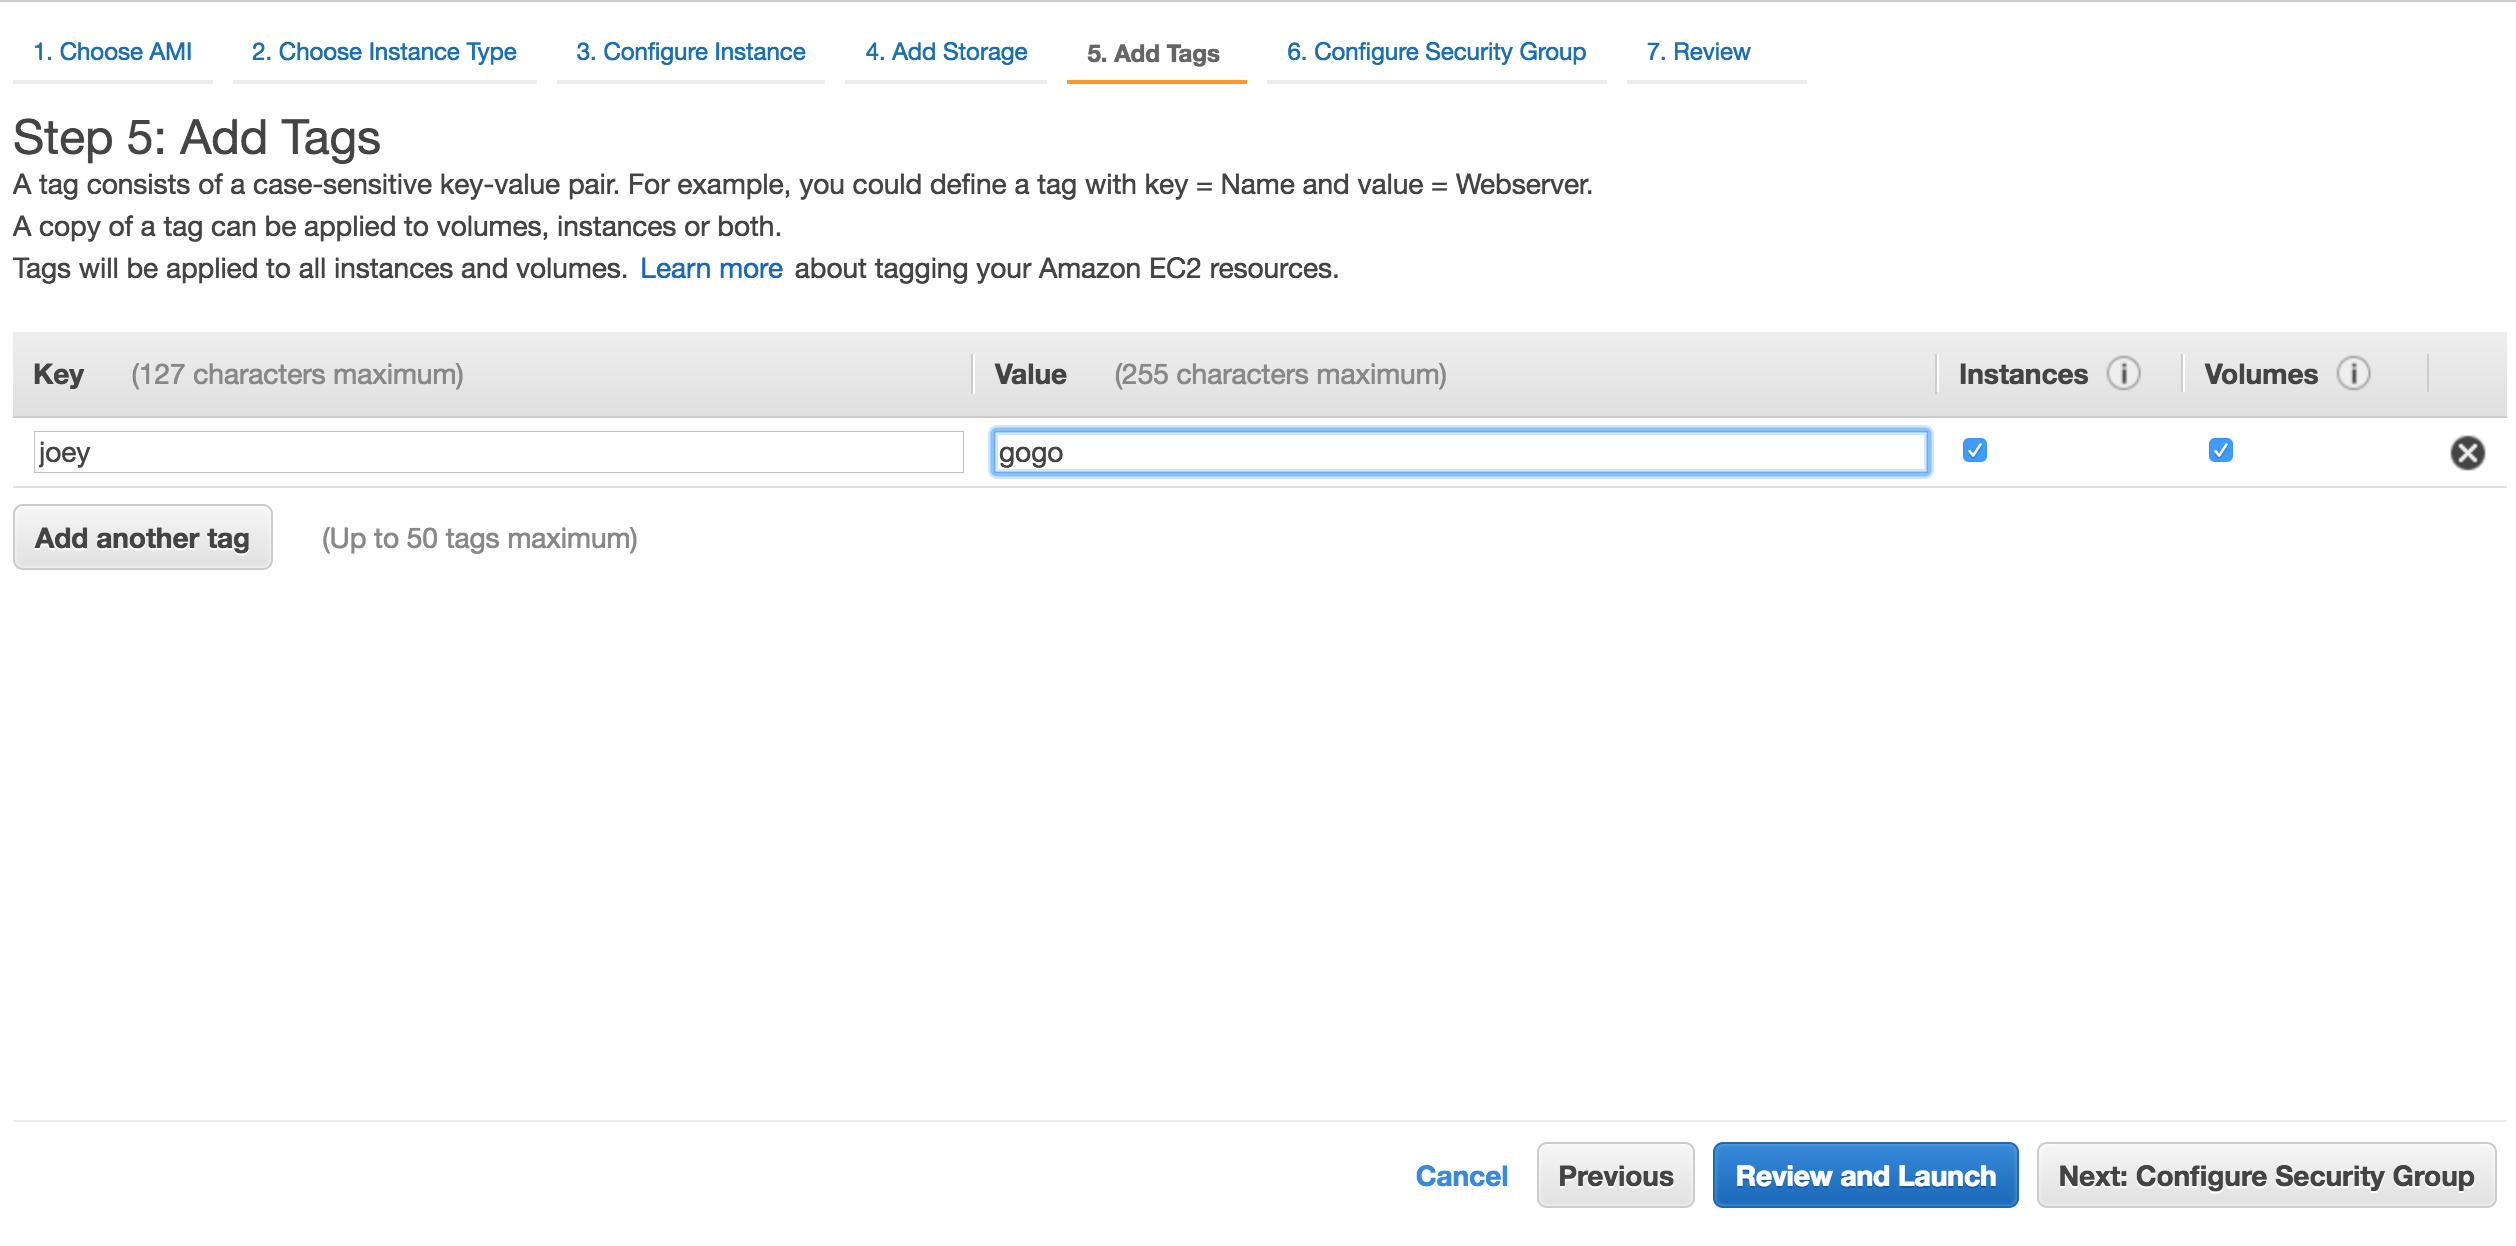
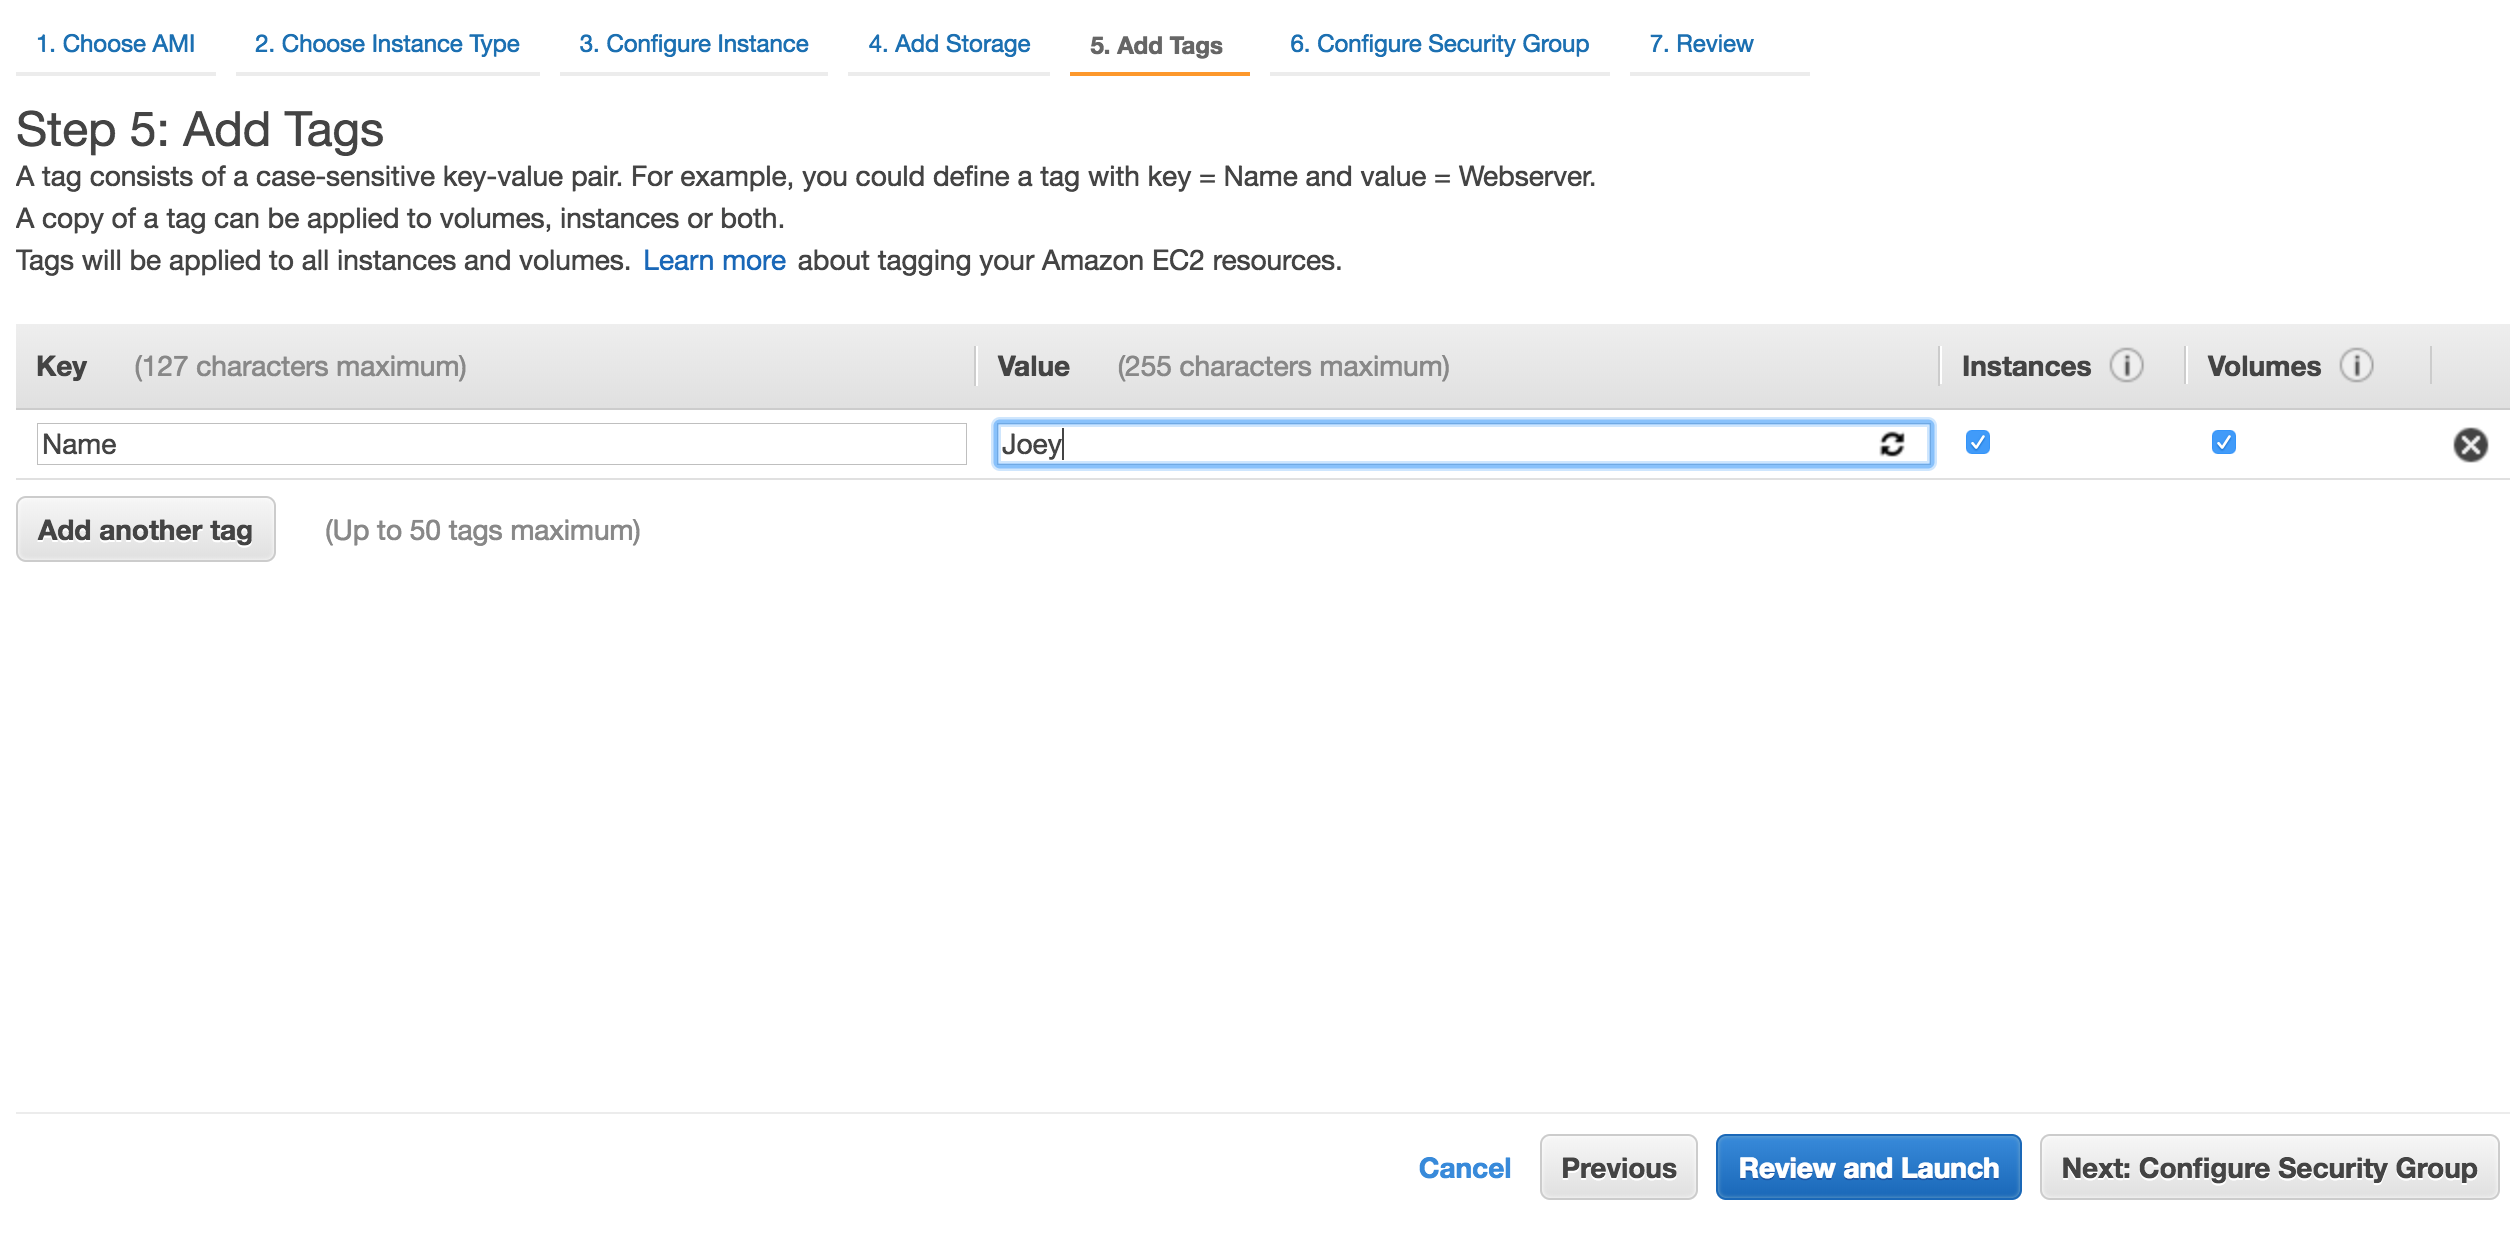
GitBook: [master] one page and 6 assets modified

diff --git a/aws-ec2.md b/aws-ec2.md
@@ -4,7 +4,9 @@ AWS EC2的全名為Amazon Elastic Compute Cloud，其以Web服務的方式，可
 
 那麼一樣話不多說，讓我們直接開始創建AWS EC2吧。
 
-## Step1 進入AWS EC2 Service
+## AWS EC2 建置
+
+### Step1 進入AWS EC2 Service
 
 進入Amazon Dashboard，並點選EC2進入。
 
@@ -12,23 +14,23 @@ AWS EC2的全名為Amazon Elastic Compute Cloud，其以Web服務的方式，可
 
 ![](.gitbook/assets/aws-ec2.png)
 
-## Step 2 創建EC2 Instance
+### Step 2 創建EC2 Instance
 
 首先先點選Running Instances，你會看到以下介面，接著點選Launch Instance。
 
 ![](.gitbook/assets/aws-ec2-launch-instance.png)
 
-## Step 3 選擇虛擬機器映像檔
+### Step 3 選擇虛擬機器映像檔
 
 在這邊你可以看到有很多很多的映像檔，那麼就依你自己的喜好去做選擇吧～在這邊我們選擇的是「Amazon Linux 2 AMI \(HVM\), SSD Volume Type 」
 
-## Step 4 選擇虛擬實例類型
+### Step 4 選擇虛擬實例類型
 
 一樣也是依你的需求去選，那麼在這邊我們當然也一樣選擇免費的XD。
 
 ![](.gitbook/assets/aws-ec2-instance-type.png)
 
-## Step 5 進階設定
+### Step 5 進階設定
 
 #### Sub-step 1 進階配置
 
@@ -44,7 +46,9 @@ AWS EC2的全名為Amazon Elastic Compute Cloud，其以Web服務的方式，可
 
 #### Sub-step 3 標籤配置
 
-接著便是為你的虛擬機器加上Tags，方便識別，Name的位置請填寫Name，Value則填寫你要對該虛擬機命名的名字。配置完後，點選「Next：Configure Security Group」。
+接著便是為你的虛擬機器加上Tags，方便識別，請先點選Add Tags，接著Key的位置請填寫Name，Value則填寫你要對該虛擬機命名的名字。配置完後，點選「Next：Configure Security Group」。
+
+![](.gitbook/assets/aws-ec2-tags.png)
 
 #### Sub-step 4 安全組配置
 
@@ -53,8 +57,84 @@ AWS EC2的全名為Amazon Elastic Compute Cloud，其以Web服務的方式，可
 那麼在這邊我們所配置的有
 
 * SSH ： 你希望可以連上此EC2 Instance的IP網段，你可以透過mask來讓同一網域的人皆可連上。
-* All HTTP
-* All HTTPS
+* HTTP：將Source改為Anywhere
+* HTTPS：將Source改為Anywhere
 
+![](.gitbook/assets/aws-ecs-security-group.png)
 
+> 在此次建立後，AWS就會將這個security group記憶起來，下次若要創建其他EC2 Instance時，可選擇上圖中的Select an existing security group選項來進行選擇。
+
+### Step 6 創建Key-pair
+
+當我們都配置完並要launch instance時，便會出現下圖，這時便是輸入key pair名稱，並記得下載Key Pair檔案，其為一個\*.pem檔，我們必須透過該檔來連接EC2 Instance。
+
+![](.gitbook/assets/aws-ec2-key-pair.png)
+
+那麼到這邊我們就已經完成了EC2 Instance的建置。
+
+## AWS EC2 連接
+
+當我們創建好AWS EC2 Instance後，那麼我們又該如何進行連接呢？  
+以下我們分為Unix-like和Windows系統去說
+
+### Unix-like
+
+#### Step 1
+
+於終端機輸入:
+
+```text
+$ chmod 400 your_user_name-key-pair-region_name.pem
+# 請先cd至你的*.pem目錄位置
+```
+
+此目的為設置私有密鑰的權限，確保只有你可以讀取
+
+#### Step 2
+
+於終端機輸入以下指令即可連線：
+
+```text
+$ ssh -i your_user_name-key-pair-region_name.pem Public DNS(IPv4) 以目前設置為例輸入:ssh -i "Joangae-key-pair-useast2.pem" ec2-user@ec2-52-14-97-41.us-east-2.compute.amazonaws.com
+# 請先cd至你的*.pem目錄位置
+# Public DNS(IPv4)會在你的實例創建完後會出現在Instance Dashboard上
+```
+
+### Windows
+
+#### Step 1
+
+安裝putty：[https://www.putty.org/](https://www.putty.org/)
+
+#### Step 2
+
+開啟PuTTYgen，點選load並選密鑰對pem檔，然後點選Save private key產生對應ppk檔\(注意:檔名須和密鑰對檔名一樣\)
+
+#### Step 3
+
+開啟Putty，於Host Name輸入:ec2-user@ec2 instance的Pubilc DNS\(IPv4\)
+
+> 注意：因本Elasticsearch的地區設在Ohio，因此上述指令為ec2-user，若為其他地區請參閱AWS官方文件
+
+#### Step 4
+
+在Putty的左邊導覽行中展開SSH並點選Auth。
+
+#### Step 5
+
+Browse剛剛所產生出的ppk檔，完成後點選Open即可與其連線。
+
+## AWS 彈性IP配置
+
+剛剛在最初有提到AWS EC2 Instance可以隨時建立、終止、連線，非常方便。但就是因為太方便，導致若是我們重新建立一個AWS EC2 Instance，其IP位址便會改變，那麼其他服務連接原本的EC2 Instance就要再改他們的配置檔，導致不必要的麻煩。
+
+基於上述的問題，AWS亦有提供彈性IP的配置，使即便我們要重新建立一個EC2 Instance，新的可以取代舊的EC2 Instance來使用同一個IP。 
+
+> 注意：一個彈性IP只能對應一個EC2 Instance，因此若是新的要用的話，必須先將彈性IP和舊的Instance切開連結。
+
+好了，那接下來讓我們看看要如何配置彈性IP吧。
+
+### Step 1 創建彈性IP
+
+至EC2 儀表板的左側導覽欄中點選Elastic IP，會出現以下介面，然後選擇Allocate new address。
 
